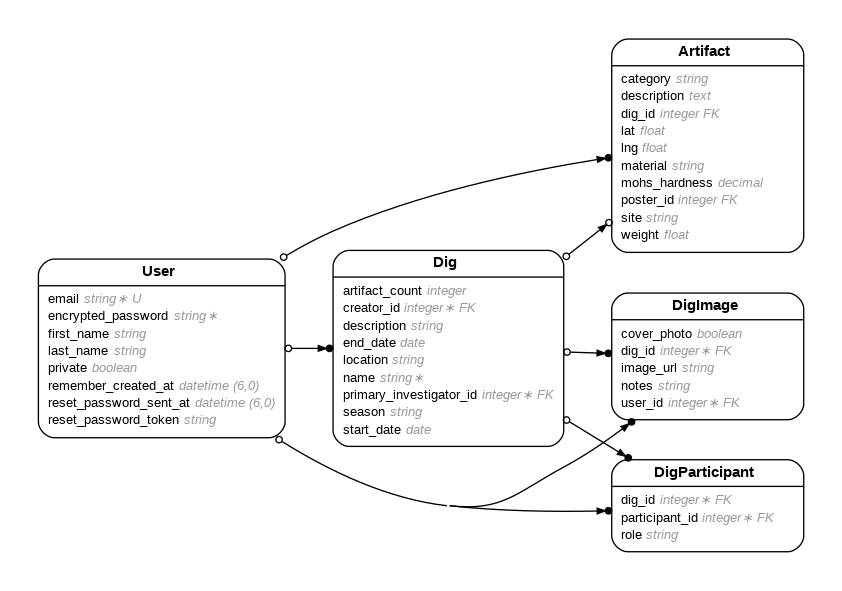
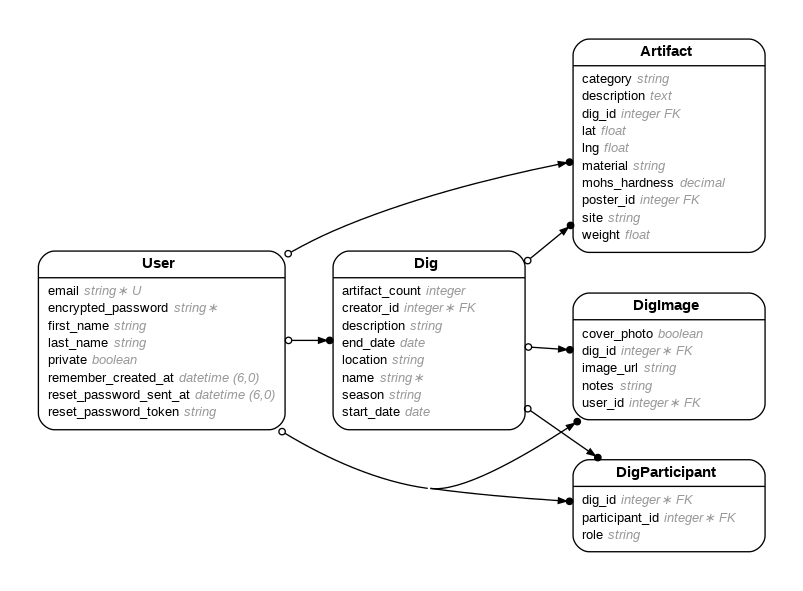
Removed PI as column

diff --git a/app/controllers/digs_controller.rb b/app/controllers/digs_controller.rb
@@ -21,26 +21,25 @@ class DigsController < ApplicationController
 
   # POST /digs or /digs.json
   def create
-    primary_investigator = User.find_by(email: dig_params[:primary_investigator_email])
+    # primary_investigator = User.find_by(email: dig_params[:primary_investigator_email])
 
     respond_to do |format|
-      if primary_investigator
-        new_params = dig_params.except(:primary_investigator_email)
-        new_params[:primary_investigator_id] = primary_investigator.id
-        @dig = Dig.new(new_params)
-        if @dig.save
-          format.html { redirect_to dig_url(@dig), notice: "Dig was successfully created." }
-          format.json { render :show, status: :created, location: @dig }
-          DigParticipant.create(dig_id: @dig.id, participant: current_user, role: "admin")
-          DigParticipant.create(dig_id: @dig.id, participant: primary_investigator, role: "primary investigator" )
-        else
-          format.html { render :new, status: :unprocessable_entity }
-          format.json { render json: @dig.errors, status: :unprocessable_entity }
-        end
+      # if primary_investigator
+      #   new_params = dig_params.except(:primary_investigator_email)
+      #   new_params[:primary_investigator_id] = primary_investigator.id
+      @dig = Dig.new(dig_params)
+      if @dig.save
+        format.html { redirect_to dig_url(@dig), notice: "Dig was successfully created." }
+        format.json { render :show, status: :created, location: @dig }
+        DigParticipant.create(dig_id: @dig.id, participant: current_user, role: "admin")
       else
-        format.html { redirect_to new_dig_url, status: :unprocessable_entity, notice: "User not found."}
-        format.json { render json: { error: "User not found" }, status: :unprocessable_entity }
+        format.html { render :new, status: :unprocessable_entity }
+        format.json { render json: @dig.errors, status: :unprocessable_entity }
       end
+      # else
+      #   format.html { redirect_to new_dig_url, status: :unprocessable_entity, notice: "User not found."}
+      #   format.json { render json: { error: "User not found" }, status: :unprocessable_entity }
+      # end
     end
   end
 
@@ -75,6 +74,6 @@ class DigsController < ApplicationController
 
     # Only allow a list of trusted parameters through.
     def dig_params
-      params.require(:dig).permit(:start_date, :end_date, :location, :name, :description, :season, :artifact_count, :creator_id, :primary_investigator_email)
+      params.require(:dig).permit(:start_date, :end_date, :location, :name, :description, :season, :artifact_count, :creator_id)
     end
 end

diff --git a/app/models/dig.rb b/app/models/dig.rb
@@ -2,32 +2,28 @@
 #
 # Table name: digs
 #
-#  id                      :integer          not null, primary key
-#  artifact_count          :integer          default(0)
-#  description             :string
-#  end_date                :date
-#  location                :string
-#  name                    :string
-#  season                  :string
-#  start_date              :date
-#  created_at              :datetime         not null
-#  updated_at              :datetime         not null
-#  creator_id              :integer          not null
-#  primary_investigator_id :integer          not null
+#  id             :integer          not null, primary key
+#  artifact_count :integer          default(0)
+#  description    :string
+#  end_date       :date
+#  location       :string
+#  name           :string
+#  season         :string
+#  start_date     :date
+#  created_at     :datetime         not null
+#  updated_at     :datetime         not null
+#  creator_id     :integer          not null
 #
 # Indexes
 #
-#  index_digs_on_creator_id               (creator_id)
-#  index_digs_on_primary_investigator_id  (primary_investigator_id)
+#  index_digs_on_creator_id  (creator_id)
 #
 # Foreign Keys
 #
-#  creator_id               (creator_id => users.id)
-#  primary_investigator_id  (primary_investigator_id => users.id)
+#  creator_id  (creator_id => users.id)
 #
 class Dig < ApplicationRecord
   belongs_to :creator, class_name: "User"
-  belongs_to :primary_investigator, class_name: "User"
 
   has_many :dig_participants
   has_many :dig_images
@@ -35,5 +31,13 @@ class Dig < ApplicationRecord
   has_many :users, through: :dig_participants
   
   validates :name, presence: true
+
+  before_create :set_season
+
+  private
+
+  def set_season
+    # TODO: logic based on date/location to set season
+  end
 
 end

diff --git a/db/schema.rb b/db/schema.rb
@@ -10,7 +10,7 @@
 #
 # It's strongly recommended that you check this file into your version control system.
 
-ActiveRecord::Schema[7.0].define(version: 2023_11_08_212855) do
+ActiveRecord::Schema[7.0].define(version: 2023_11_09_155546) do
   create_table "artifacts", force: :cascade do |t|
     t.float "lat"
     t.float "lng"
@@ -58,11 +58,9 @@ ActiveRecord::Schema[7.0].define(version: 2023_11_08_212855) do
     t.string "season"
     t.integer "artifact_count", default: 0
     t.integer "creator_id", null: false
-    t.integer "primary_investigator_id", null: false
     t.datetime "created_at", null: false
     t.datetime "updated_at", null: false
     t.index ["creator_id"], name: "index_digs_on_creator_id"
-    t.index ["primary_investigator_id"], name: "index_digs_on_primary_investigator_id"
   end
 
   create_table "users", force: :cascade do |t|
@@ -85,5 +83,4 @@ ActiveRecord::Schema[7.0].define(version: 2023_11_08_212855) do
   add_foreign_key "dig_participants", "digs"
   add_foreign_key "dig_participants", "users", column: "participant_id"
   add_foreign_key "digs", "users", column: "creator_id"
-  add_foreign_key "digs", "users", column: "primary_investigator_id"
 end

diff --git a/app/models/user.rb b/app/models/user.rb
@@ -25,7 +25,6 @@ class User < ApplicationRecord
   devise :database_authenticatable, :registerable,
          :recoverable, :rememberable, :validatable
   has_many :created_digs, class_name: "Dig", foreign_key: "creator_id"
-  has_many :directed_digs, class_name: "Dig", foreign_key: "primary_investigator_id"
   has_many :created_artifacts, class_name: "Artifact", foreign_key: "poster_id"
   has_many :dig_participants, foreign_key: "participant_id"
   has_many :digs, through: :dig_participants

diff --git a/app/models/artifact.rb b/app/models/artifact.rb
@@ -17,6 +17,6 @@
 #  poster_id     :integer
 #
 class Artifact < ApplicationRecord
-  # belongs_to :dig, class_name: "Dig", foreign_key: "dig_id"
+  belongs_to :dig, counter_cache: true
   belongs_to :poster, class_name: "User", foreign_key: "poster_id"
 end

diff --git a/db/migrate/20231109155546_remove_primary_investigator_id_from_digs.rb b/db/migrate/20231109155546_remove_primary_investigator_id_from_digs.rb
@@ -1,0 +1,5 @@
+class RemovePrimaryInvestigatorIdFromDigs < ActiveRecord::Migration[7.0]
+  def change
+    remove_column :digs, :primary_investigator_id
+  end
+end
